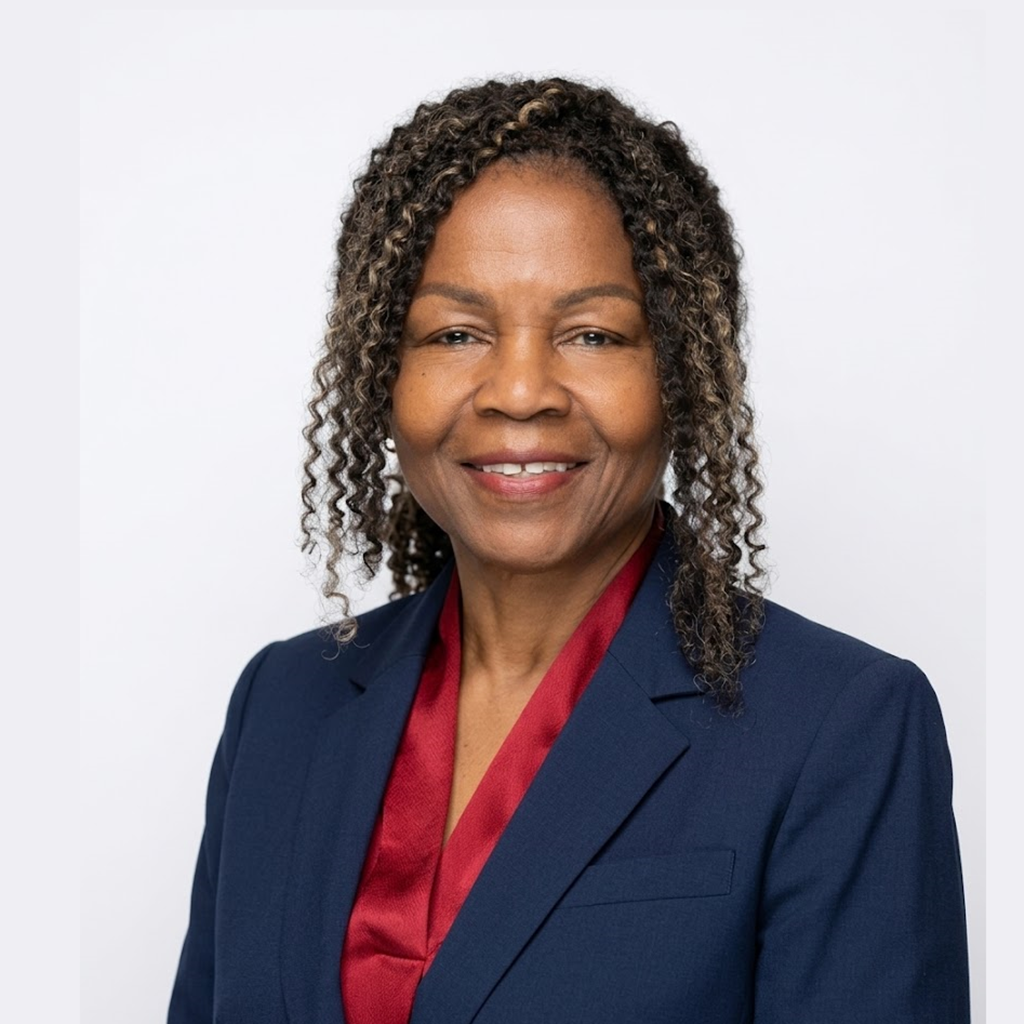
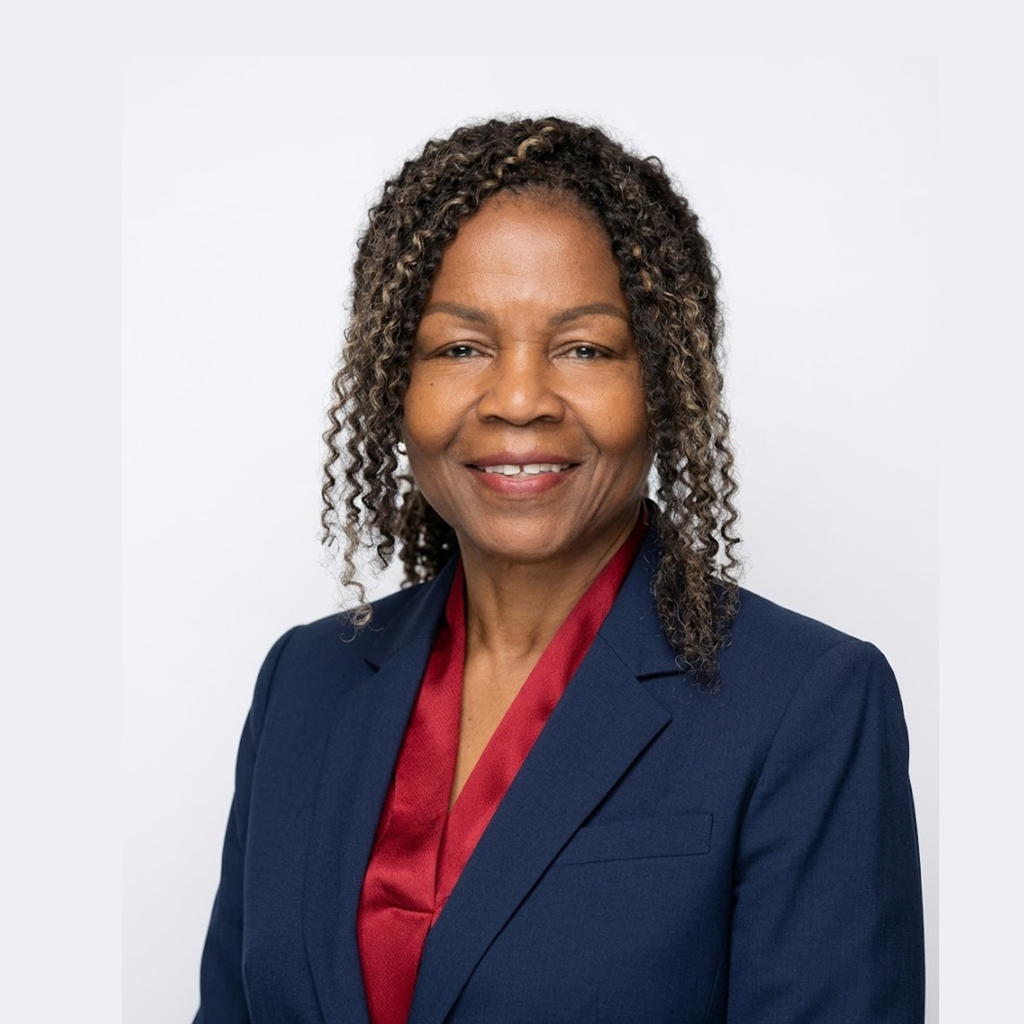
Fix Juliet's photo headroom; rename first TruMerit link to include CGFNS

diff --git a/pages/resources.html b/pages/resources.html
@@ -201,7 +201,7 @@
         </div>
         <p class="mt-3 text-sm leading-relaxed text-slate-700">Credential evaluation, VisaScreen&reg; certification, and New York CVS review for internationally educated nurses.</p>
         <ul class="mt-5 space-y-3 text-sm">
-          <li><a href="https://www.trumerit.org/" target="_blank" rel="noopener noreferrer" class="group inline-flex min-h-[36px] items-center gap-2 font-bold text-navy cursor-pointer"><svg viewBox="0 0 24 24" class="h-4 w-4 shrink-0 text-red transition-transform group-hover:translate-x-0.5" fill="none" stroke="currentColor" stroke-width="2.2" stroke-linecap="round" stroke-linejoin="round" aria-hidden="true"><path d="M5 12h14M13 6l6 6-6 6"/></svg>TruMerit Home<span class="sr-only"> (opens in a new tab)</span></a></li>
+          <li><a href="https://www.trumerit.org/" target="_blank" rel="noopener noreferrer" class="group inline-flex min-h-[36px] items-center gap-2 font-bold text-navy cursor-pointer"><svg viewBox="0 0 24 24" class="h-4 w-4 shrink-0 text-red transition-transform group-hover:translate-x-0.5" fill="none" stroke="currentColor" stroke-width="2.2" stroke-linecap="round" stroke-linejoin="round" aria-hidden="true"><path d="M5 12h14M13 6l6 6-6 6"/></svg>TruMerit / CGFNS Home<span class="sr-only"> (opens in a new tab)</span></a></li>
           <li><a href="https://www.trumerit.org/" target="_blank" rel="noopener noreferrer" class="group inline-flex min-h-[36px] items-center gap-2 font-bold text-navy cursor-pointer"><svg viewBox="0 0 24 24" class="h-4 w-4 shrink-0 text-red transition-transform group-hover:translate-x-0.5" fill="none" stroke="currentColor" stroke-width="2.2" stroke-linecap="round" stroke-linejoin="round" aria-hidden="true"><path d="M5 12h14M13 6l6 6-6 6"/></svg>Create/Login to Your Account (GPVault)<span class="sr-only"> (opens in a new tab)</span></a></li>
           <li><a href="https://www.trumerit.org/" target="_blank" rel="noopener noreferrer" class="group inline-flex min-h-[36px] items-center gap-2 font-bold text-navy cursor-pointer"><svg viewBox="0 0 24 24" class="h-4 w-4 shrink-0 text-red transition-transform group-hover:translate-x-0.5" fill="none" stroke="currentColor" stroke-width="2.2" stroke-linecap="round" stroke-linejoin="round" aria-hidden="true"><path d="M5 12h14M13 6l6 6-6 6"/></svg>Apply for Credentials Verification Service (CVS) for New York State<span class="sr-only"> (opens in a new tab)</span></a></li>
           <li><a href="https://www.trumerit.org/" target="_blank" rel="noopener noreferrer" class="group inline-flex min-h-[36px] items-center gap-2 font-bold text-navy cursor-pointer"><svg viewBox="0 0 24 24" class="h-4 w-4 shrink-0 text-red transition-transform group-hover:translate-x-0.5" fill="none" stroke="currentColor" stroke-width="2.2" stroke-linecap="round" stroke-linejoin="round" aria-hidden="true"><path d="M5 12h14M13 6l6 6-6 6"/></svg>Help Me Select the Right Service<span class="sr-only"> (opens in a new tab)</span></a></li>
